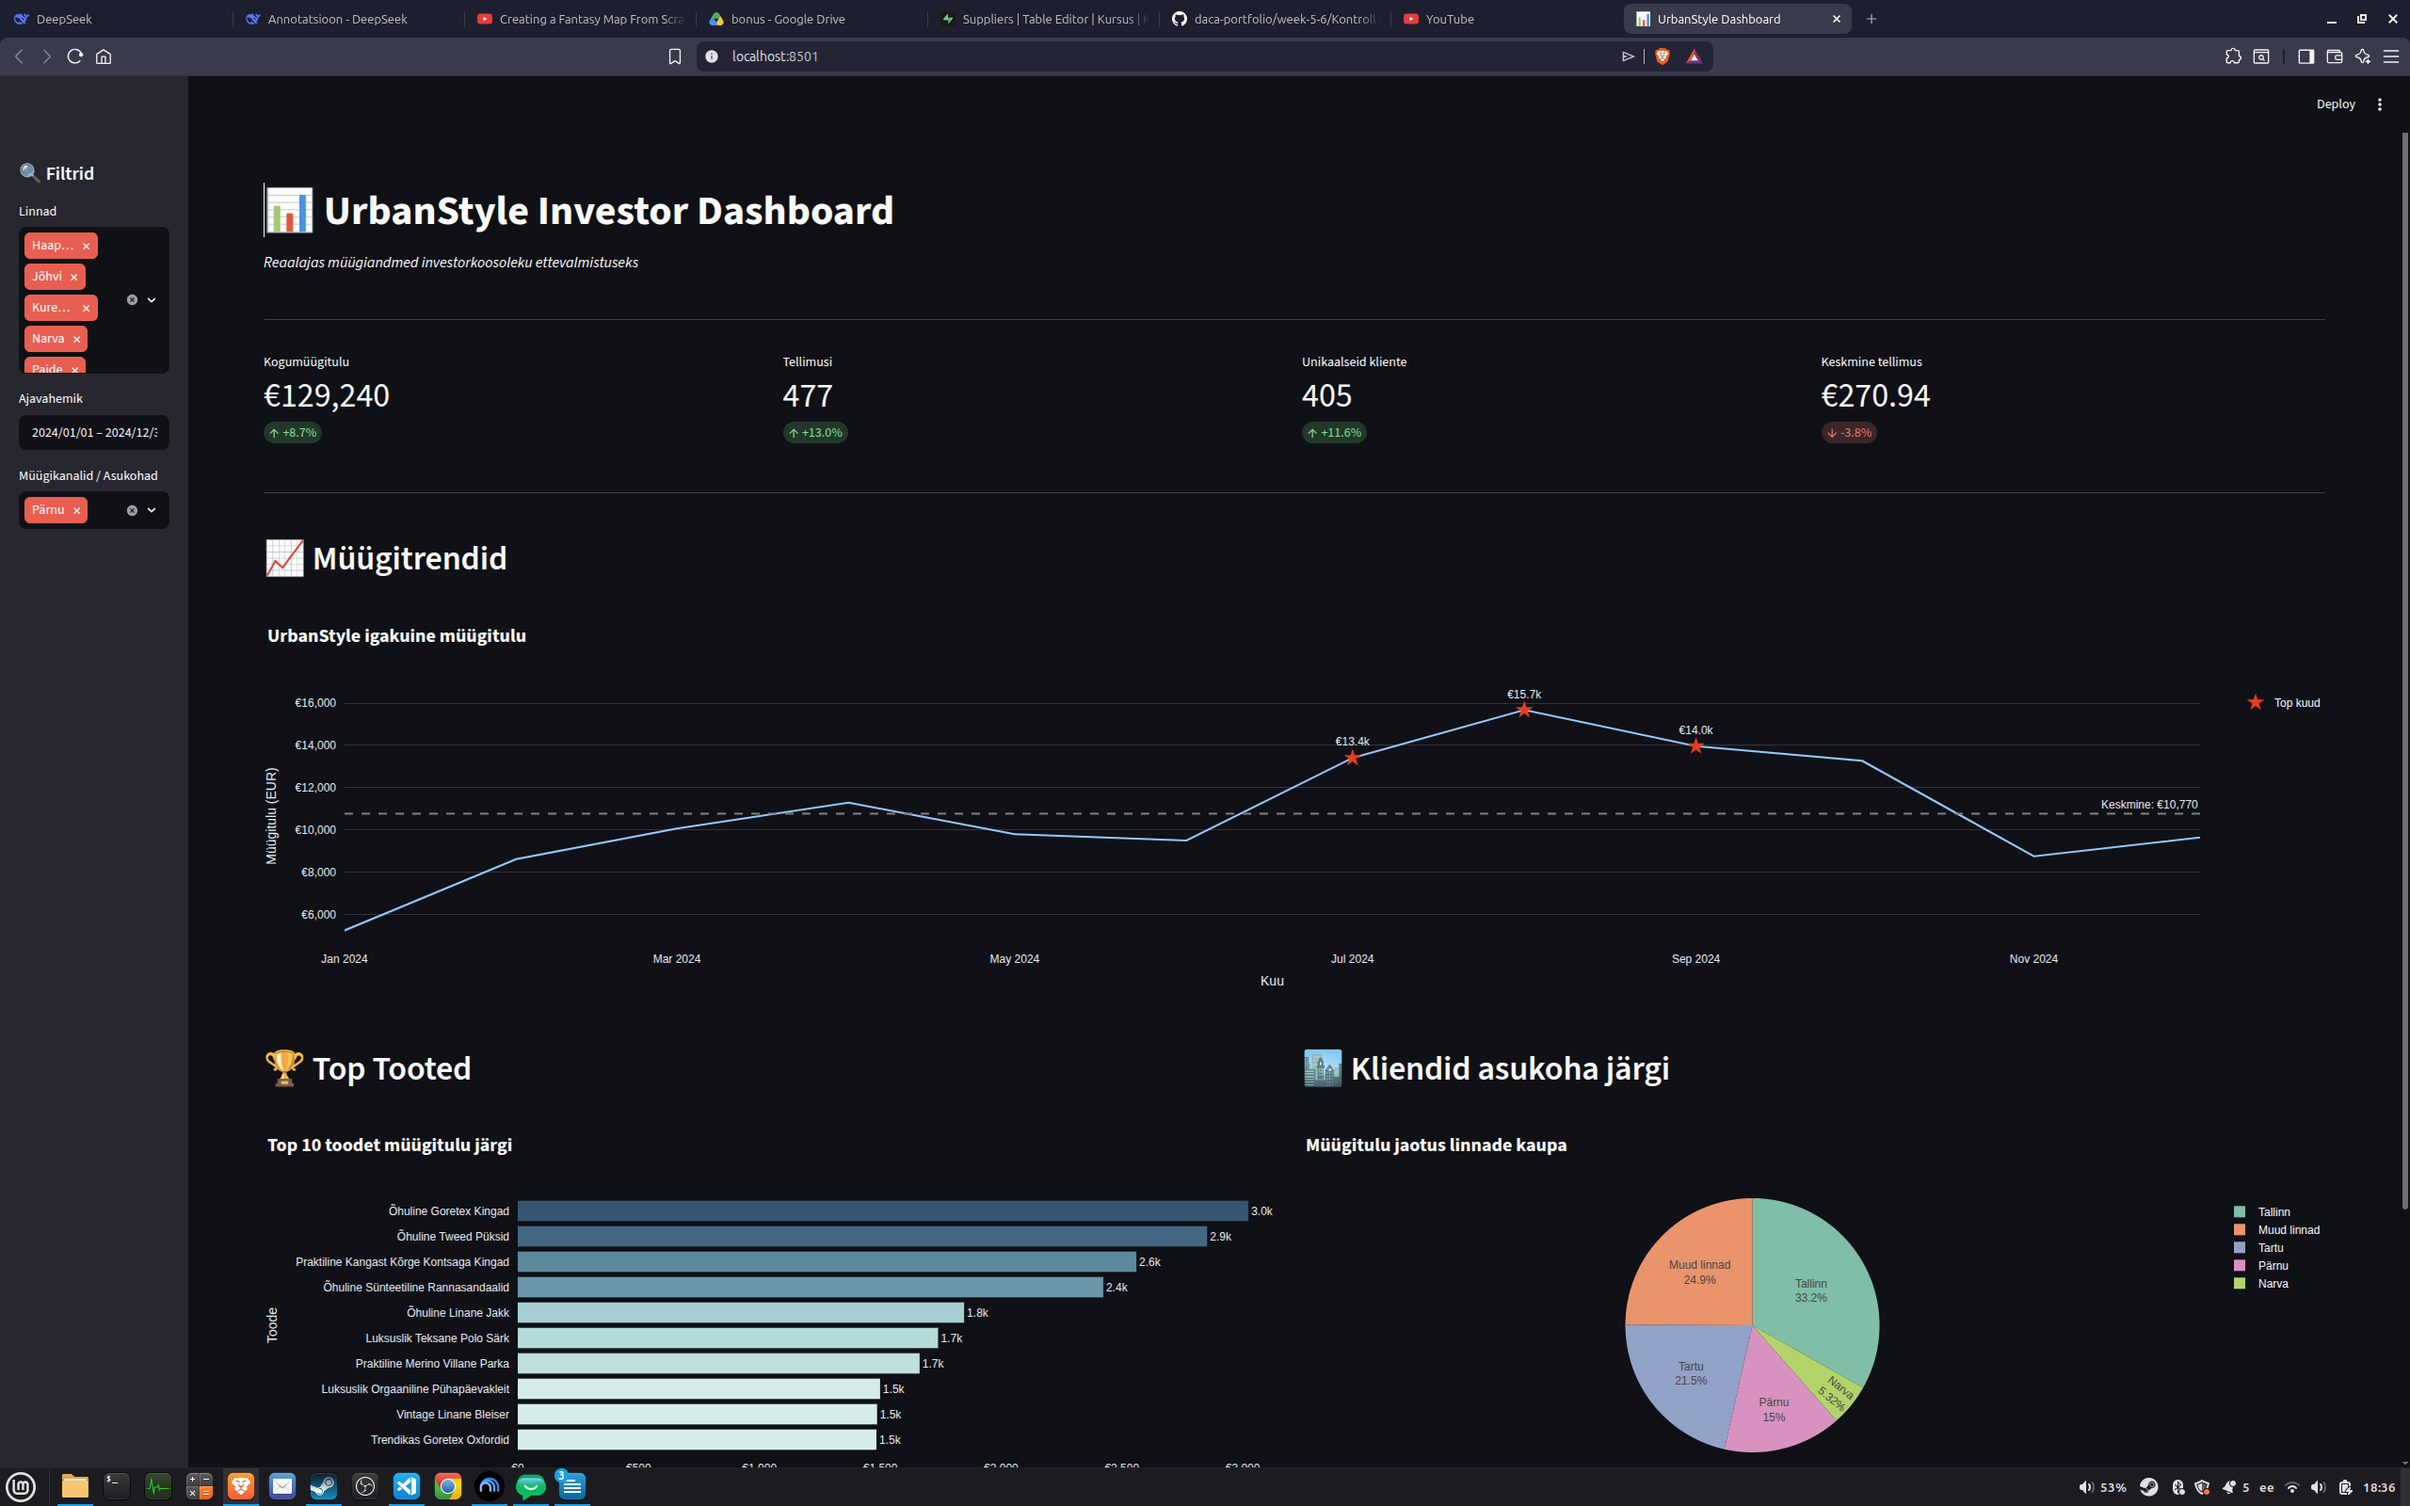
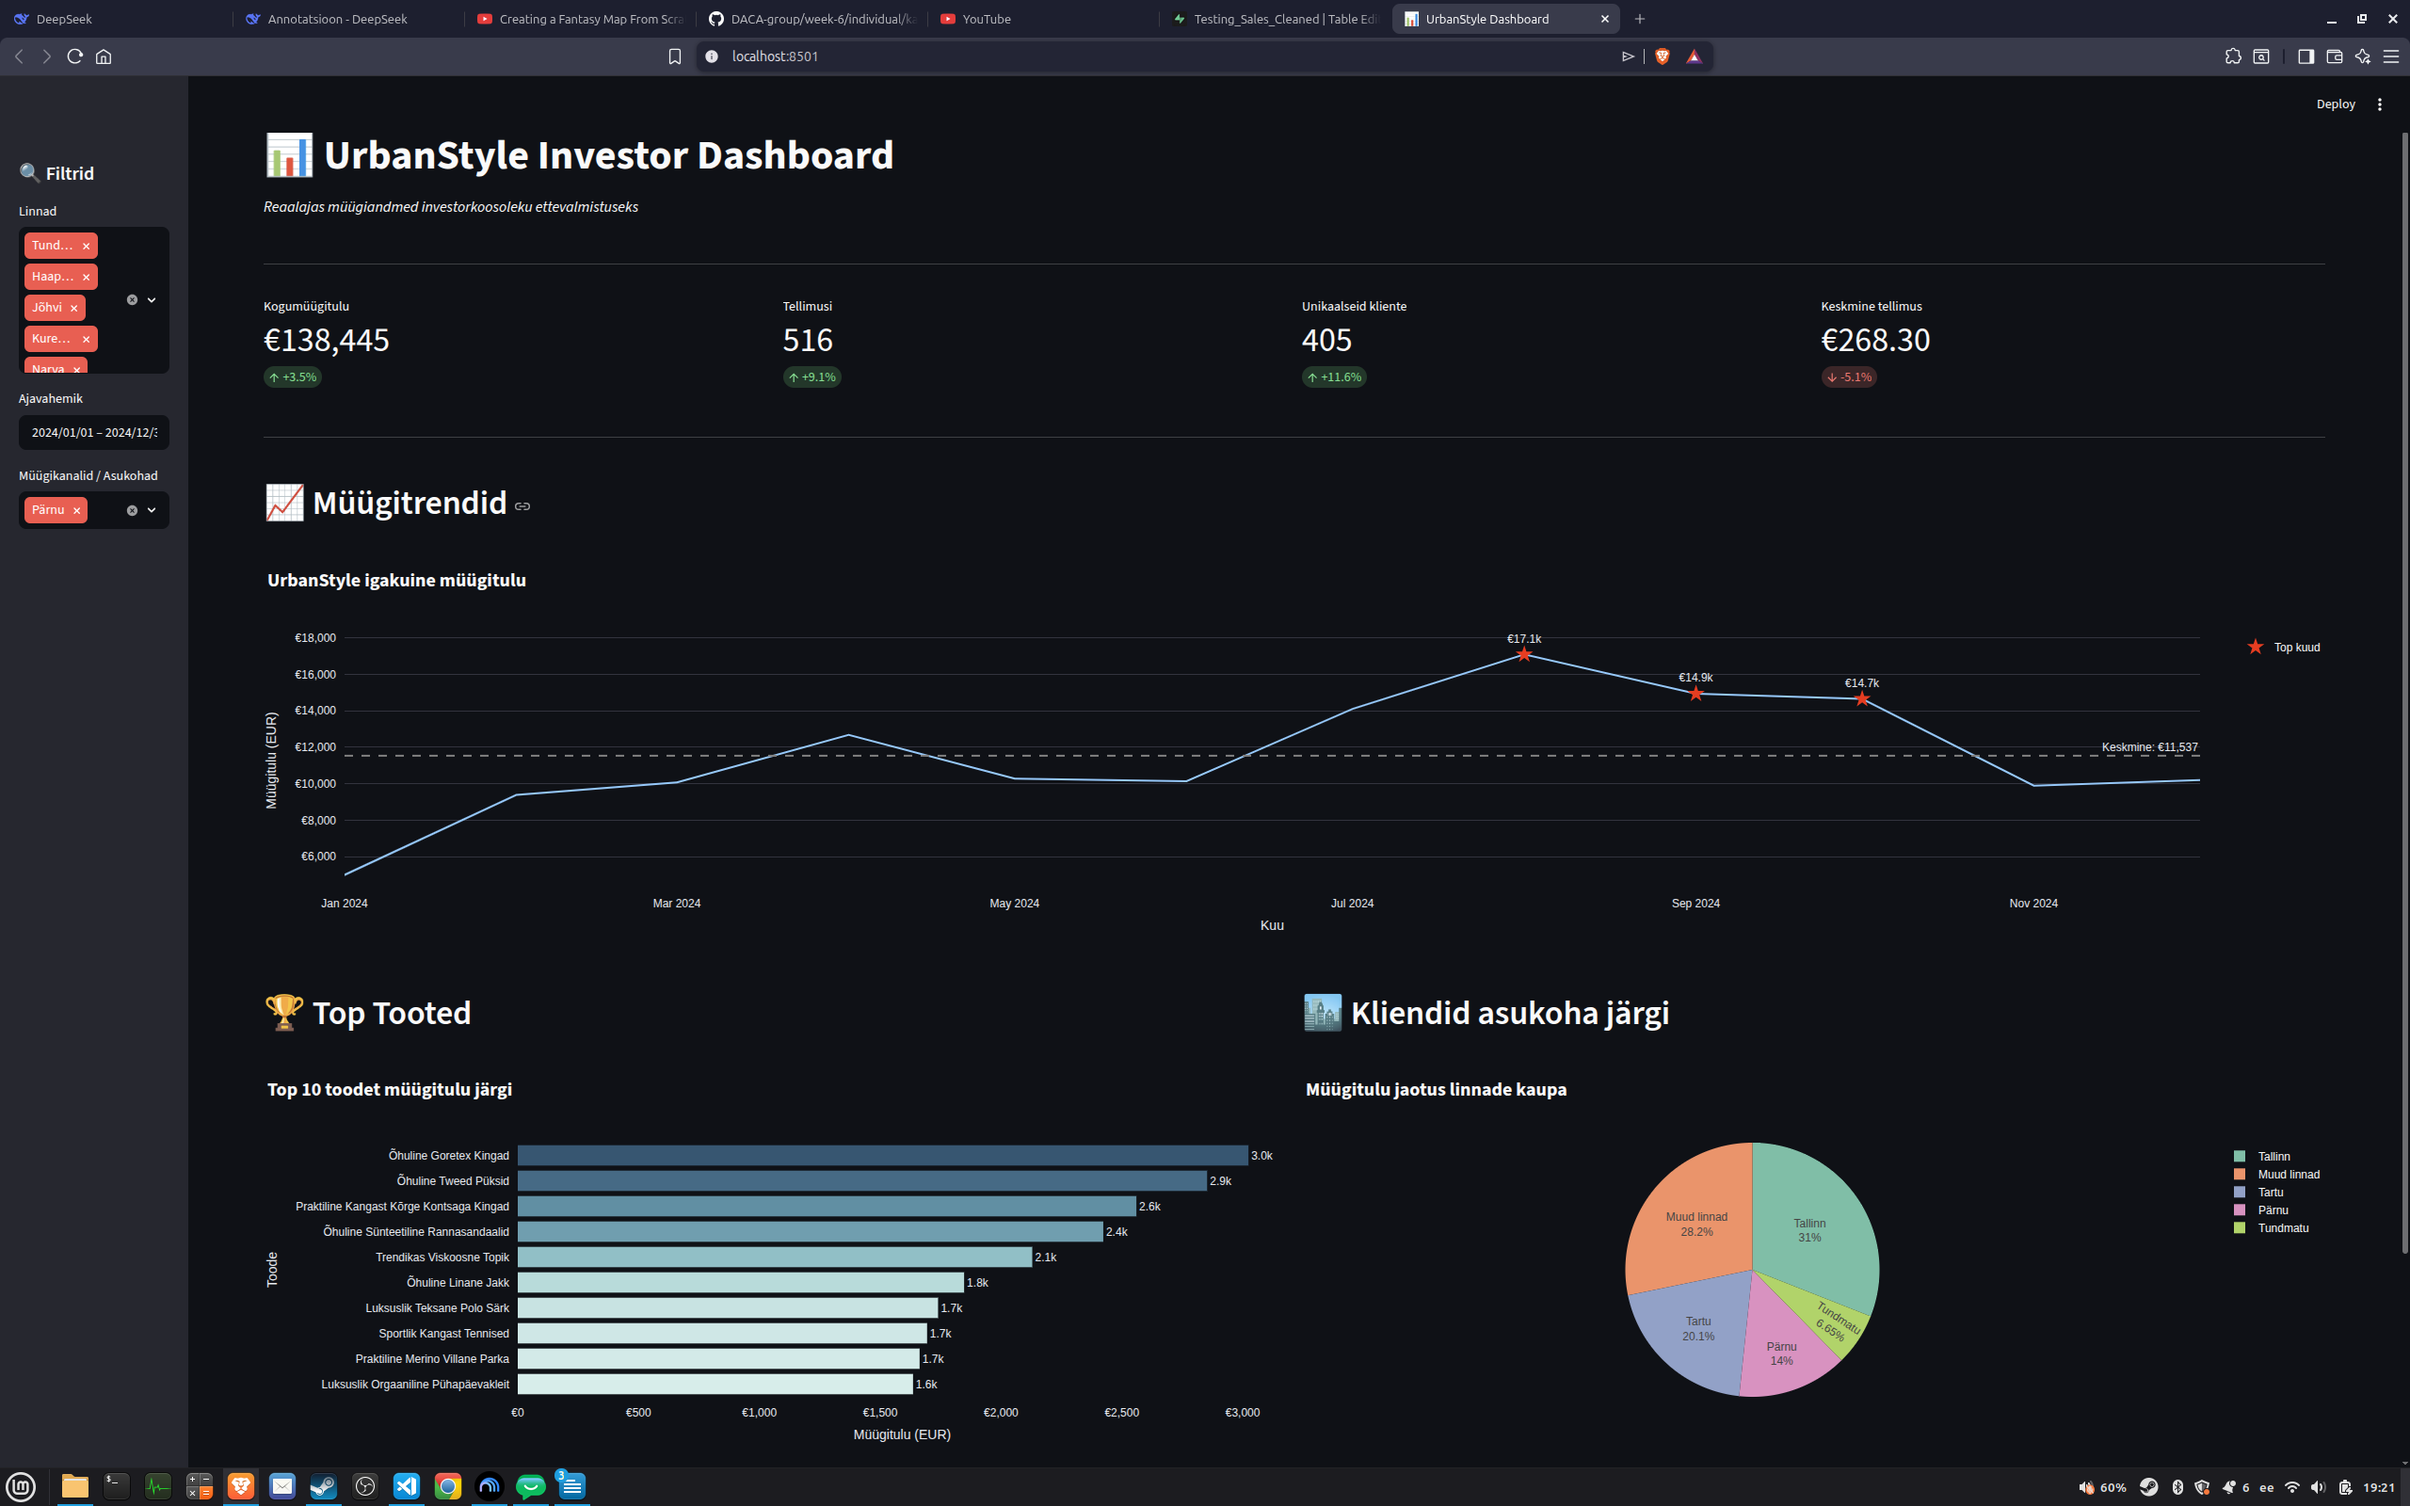
Fixed filters so it includs custemers who are unknown

diff --git a/week-6/individual/kalju/Week_6_README.md b/week-6/individual/kalju/Week_6_README.md
@@ -24,19 +24,19 @@ The dashboard was designed to give investors a real‑time overview of UrbanStyl
 The dashboard reveals several important patterns about UrbanStyle’s business in Pärnu:
 
 1. **Pärnu is a strongly summer‑focused location.**  
-   The top 3 revenue months are **July, August, and September**. There is no significant year‑end sales spike.
+   The top 3 revenue months are **August, September and Oktober**. There is no significant year‑end sales spike.
 
 2. **Seasonal product dominance.**  
-   Four out of the top five products contain the word *"Õhuline"* (Airy), which clearly indicates summer‑oriented merchandise.
+   Three out of the top five products contain the word *"Õhuline"* (Airy), which clearly indicates summer‑oriented merchandise.
 
 3. **Year‑over‑year growth with one warning sign.**  
-   Compared to 2023, the 2024 KPIs grew between **8.7% and 13.6%** – except for the **average order value**, which **dropped by 3.8%**. This merits further investigation.
+   Compared to 2023, the 2024 KPIs grew between **3.5% and 11.6%** – except for the **average order value**, which **dropped by 5.1%**. This merits further investigation into priceing.
 
 4. **End‑of‑year campaigns had little impact.**  
    Promotions in November and December did not generate the expected uplift, confirming that the business is strongly seasonal.
 
 5. **Local customers are a minority.**  
-   Only **15% of revenue** comes from local buyers – the vast majority are tourists.
+   Only **14% of revenue** comes from local buyers – the vast majority are tourists.
 
 **Conclusion:** Pärnu is a summer‑driven market. Marketing efforts and inventory should focus on the peak season, while year‑end campaigns may be deprioritised. Given the high share of tourist customers, there is a clear opportunity to **consider raising prices** without significantly hurting demand.
 
@@ -66,6 +66,9 @@ To make the dashboard more insightful and maintainable, I added several enhancem
 
 5. **Brokedown Code into Logical Modules**  
    - Each file now has a single responsibility, making the code far more readable, testable, and maintainable.
+
+6. **Fixed Filtering logic**  
+   - Previously filters left out sales with customer unknown.
 
 ---
 
